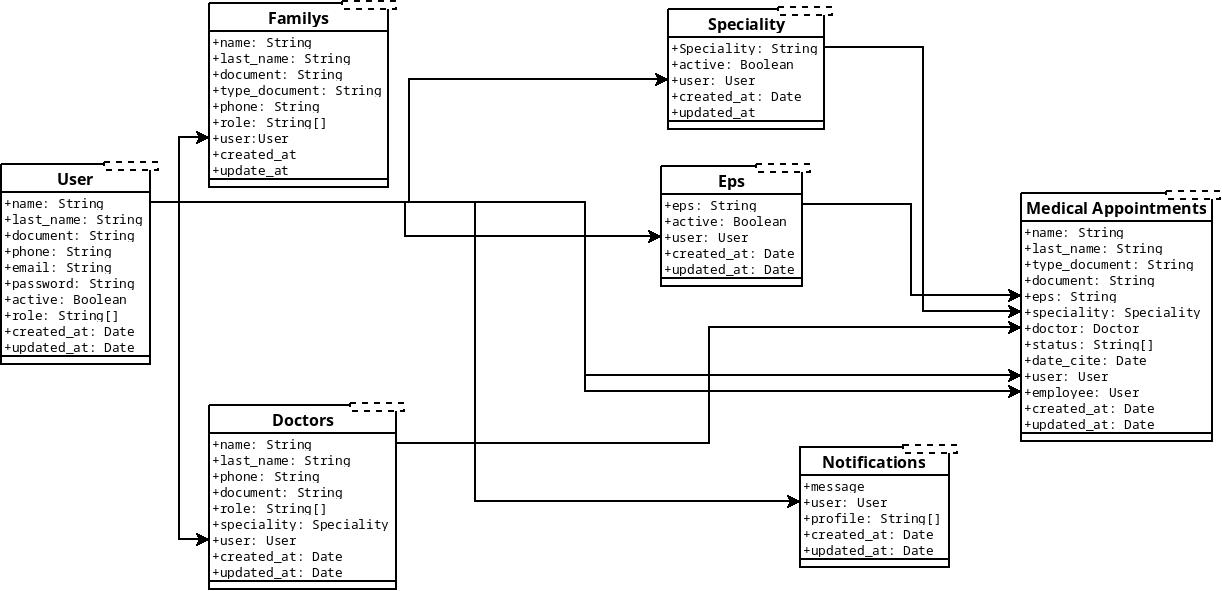
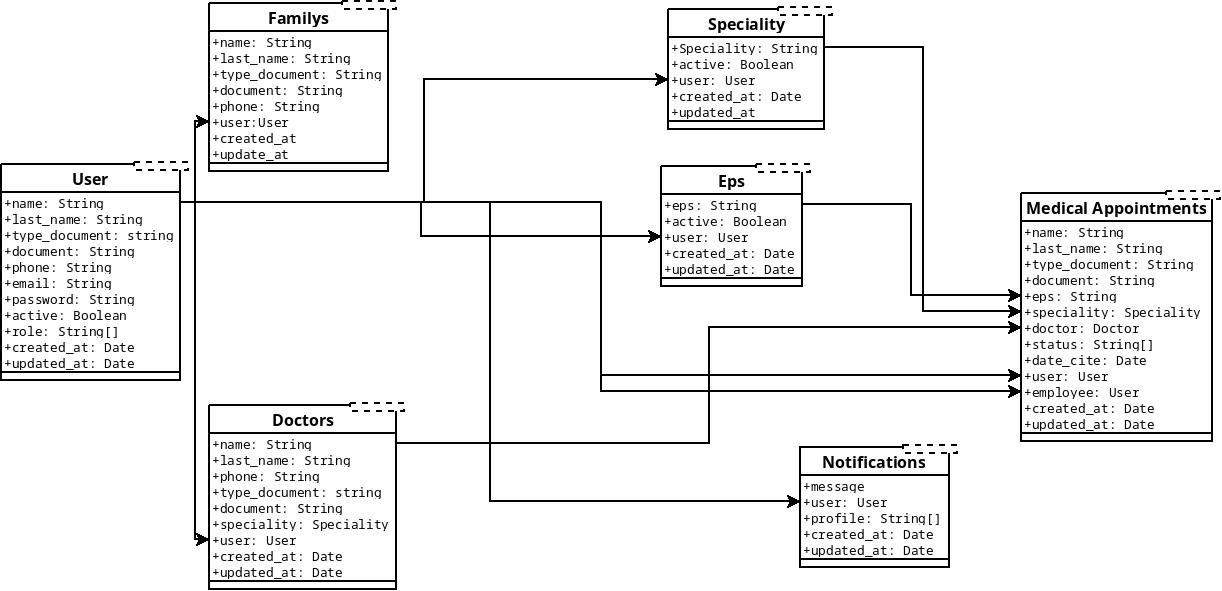
implementation finished of end-point of register user

diff --git a/src/domain/dtos/auth/register.dto.ts b/src/domain/dtos/auth/register.dto.ts
@@ -1,0 +1,53 @@
+import { regular_exp } from "../../../config/regular_exp";
+
+export class RegisterDTO {
+
+    private constructor(
+        public name: string,
+        public last_name: string,
+        public type_document: string,
+        public document: string,
+        public phone: string,
+        public email: string,
+        public password: string,
+        public active?: boolean,
+        public role?: string[],
+
+    ){}
+
+
+    static create(object: {[key: string]: any}): [ string?, RegisterDTO? ]{
+
+        const { name, last_name, type_document, document, phone, email, password } = object;
+
+        if( !name ) return [ "Missing name" ];
+
+        if( !last_name ) return [ "Missing last_name" ];
+
+        if( !type_document ) return [ "Missing type_document" ];
+
+        if( !document ) return [ "Missing document" ];
+
+        if( document.length < 7 ) return ["Document to short, contain less 7 characters"];
+        
+        if( document.length > 10) return [ "Document to long, contain less 10 characters" ];
+
+        if( !phone ) return [ "Missing phone"];
+
+        if( !regular_exp.phone.test( phone ) ) return [ "Phone Number invalid" ];
+
+        if( !email ) return [ "Missing email" ];
+
+        if( !regular_exp.email.test( email ) ) return [ "Format email invalid" ];
+
+        if( !password ) return [ "Missing password" ];
+
+        if( password.length < 7 ) return [ "Password to short, contain less 8 characters"];
+
+        if( password.length > 12 ) return [ "Password to long, contain less 12 characters" ];
+
+        if( !regular_exp.password.test( password ) ) return [ "Incorrect password, password must have 1 uppercase character, 1 lowercase character and 1 special character" ];
+
+        return [ undefined, new RegisterDTO( name, last_name, type_document, document, phone, email, password ) ];
+    }
+}

diff --git a/src/data/mongo/models/user.model.ts b/src/data/mongo/models/user.model.ts
@@ -1,0 +1,62 @@
+import { model, Schema } from "mongoose";
+
+const userSchema = new Schema({
+    name: {
+        type: String,
+        required: [ true, "Missing Name" ]
+    },
+    last_name: {
+        type: String,
+        required: [ true, "Missing Last Name" ]
+    },
+    type_document: {
+        type: String,
+        required: [ true, "Missing Type Document"]
+    },
+    document: {
+        type: String,
+        required: [ true, "Missing Document"]
+    },
+    phone: {
+        type: String,
+        required: [ true , "Missing Number Phone" ],
+    },
+    email: {
+        type: String,
+        required: [ true, "Missing Email" ],
+    },
+    password: {
+        type: String,
+        required: [ true, "Missing Password" ]
+    },
+    active: {
+        type: Boolean,
+        default: false,
+    },
+    role: {
+        type: String,
+        enum: [ "ADMIN_ROLE", "EMPLOYEE_ROLE", "USER_ROLE" ],
+        default: "USER_ROLE",
+    },
+    created_at: {
+        type: Date,
+        default: new Date(),
+    },
+    update_at: {
+        type: Date,
+        default: new Date()
+    }
+});
+
+userSchema.set( "toJSON", {
+    virtuals: true,
+    versionKey: true,
+    transform: ( doc, ret, options ) => {
+        delete ret._id,
+        delete ret.password
+    }
+})
+
+
+
+export const UserModel = model("User", userSchema);

diff --git a/src/presentation/services/auth.service.ts b/src/presentation/services/auth.service.ts
@@ -1,0 +1,35 @@
+import { BcryptAdapter } from "../../config/bcrypt.adapter";
+import { UserModel } from "../../data";
+import { CustomError } from "../../domain";
+import { RegisterDTO } from "../../domain/dtos";
+import { UserEntity } from "../../domain/entities";
+
+
+export class AuthService {
+
+    constructor(){}
+
+
+    public async register( registerDto: RegisterDTO ) {
+
+        const existsUser = await UserModel.findOne({ email: registerDto.email });
+        if( existsUser ) throw CustomError.badRequest( "User already exist" );
+
+        try {
+            const user = await UserModel.create(registerDto);
+            user.password = BcryptAdapter.hash( registerDto.password );
+            await user.save();
+            
+            const newUser = UserEntity.fromObject( user );
+
+            // TODO: implement logic for send mail of activation account
+
+            return { user: newUser };
+
+        } catch (error) {
+            // TODO: implement logic for logger file
+            throw CustomError.intenalServer( `${error}` );
+        }
+    }
+
+}

diff --git a/src/presentation/auth/controller.ts b/src/presentation/auth/controller.ts
@@ -1,12 +1,29 @@
 import { Request, Response } from "express";
+import { RegisterDTO } from "../../domain/dtos";
+import { AuthService } from "../services";
+import { CustomError } from "../../domain";
 
 export class AuthController {
 
-    constructor(){}
+    constructor( private authService: AuthService ){}
 
+    private handleError( error: unknown, res: Response ) {
+        if( error instanceof CustomError ) return res.status(error.statusCode).json({ error: error.message });
+        return res.status(500).json({ error: "Internal server error" });
+    }
 
     public register = ( req: Request, res: Response) => {
-        res.json("register");
+        const [ error, registerDto ] = RegisterDTO.create( req.body );
+        if( error ) {
+            res.status(400).json({ error })
+            return;
+        }
+
+
+        this.authService.register( registerDto! )
+            .then( user => res.status(201).json( user ) )
+            .catch( error => this.handleError( error, res ) );
+        
     }
 
 

diff --git a/src/domain/entities/user.entity.ts b/src/domain/entities/user.entity.ts
@@ -1,0 +1,21 @@
+export class UserEntity {
+
+    private constructor (
+        public name: string,
+        public last_name: string,
+        public type_document: string,
+        public document: string,
+        public phone: string,
+        public email: string,
+        public id?: string,
+    ){}
+
+
+    public static fromObject ( object: {[key: string]: any} ) {
+        const { _id, id, name, last_name, type_document, document, phone, email,} = object;
+
+        return new UserEntity( name, last_name, type_document, document, phone, email, id || _id)
+    }
+
+
+}

diff --git a/src/presentation/auth/routes.ts b/src/presentation/auth/routes.ts
@@ -1,5 +1,6 @@
 import { Router } from "express";
 import { AuthController } from "./controller";
+import { AuthService } from "../services";
 
 export class AuthRoutes {
 
@@ -7,7 +8,8 @@ export class AuthRoutes {
     static get routes (): Router {
         const routes = Router();
         
-        const controller = new AuthController();
+        const authService = new AuthService();
+        const controller = new AuthController( authService );
 
         routes.post( "/auth/register", controller.register );
         routes.post( "/auth/singIn", controller.singIn );

diff --git a/src/domain/errors/custom.error.ts b/src/domain/errors/custom.error.ts
@@ -1,0 +1,16 @@
+export class CustomError {
+
+    private constructor(
+        public readonly statusCode: number,
+        public readonly message: string
+    ){}
+
+    public static badRequest = ( message: string ) => new CustomError( 400, message);
+
+    public static intenalServer = (message: string ) => new CustomError( 400, message );
+
+    public static unathorized = ( message: string) => new CustomError( 403, message );
+
+    public static notFount = ( message: string ) => new CustomError( 404, message );
+    
+}

diff --git a/src/data/mongo/mongo-database.ts b/src/data/mongo/mongo-database.ts
@@ -1,0 +1,25 @@
+import mongoose from "mongoose";
+
+
+interface Options {
+    mongoUrl: string;
+    dbName: string;
+}
+
+
+export class MongoConnect {
+
+
+    static async connect( options: Options ){
+        const {mongoUrl, dbName} = options;
+
+        try {
+            await mongoose.connect( mongoUrl, { dbName });
+            return true;
+        } catch ( error ) {
+            throw `Mongo connection error - ${error}`
+        }
+
+    }
+
+}

diff --git a/src/config/bcrypt.adapter.ts b/src/config/bcrypt.adapter.ts
@@ -1,0 +1,13 @@
+import { compareSync, genSaltSync, hashSync } from "bcryptjs";
+
+export class BcryptAdapter {
+    
+    static hash( password: string ) {
+        const salt = genSaltSync();
+        return hashSync( password, salt );
+    }
+
+    static compare( password: string, hashed: string ) {
+        return compareSync( password, hashed );
+    }
+}

diff --git a/src/presentation/routes.ts b/src/presentation/routes.ts
@@ -1,9 +1,14 @@
 import { Router } from "express";
+import { AuthRoutes } from "./auth";
 
 export class AppRouter {
 
     static get routes(): Router {
         const routes = Router();
+
+        const apiEndPoint = "/api/v1";
+
+        routes.use( apiEndPoint, AuthRoutes.routes );
 
         return routes;
     }

diff --git a/src/config/regular_exp.ts b/src/config/regular_exp.ts
@@ -1,0 +1,5 @@
+export const regular_exp = {
+    phone: /\d{10}$/,
+    email: /^[a-zA-Z0-9._-]+@[a-zA-Z0-9.-]+\.[a-zA-Z]{2,6}$/,
+    password: /^(?=.*[a-z])(?=.*[A-Z])(?=.*\d)(?=.*[$@$!%*_?&])([A-Za-z\d$@$!%*?&]|[^ ]){8,12}$/,
+}

diff --git a/src/data/index.ts b/src/data/index.ts
@@ -1,1 +1,2 @@
 export * from "./mongo/mongo-database";
+export * from "./mongo/models/user.model";
